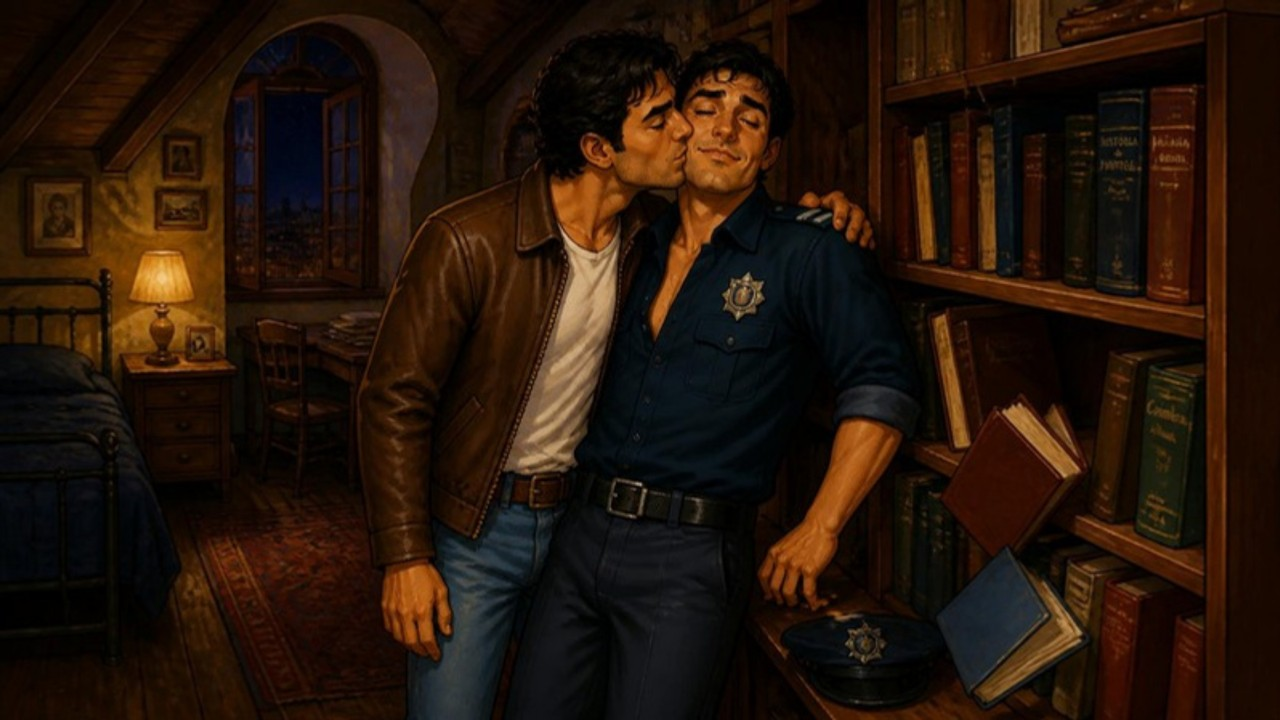
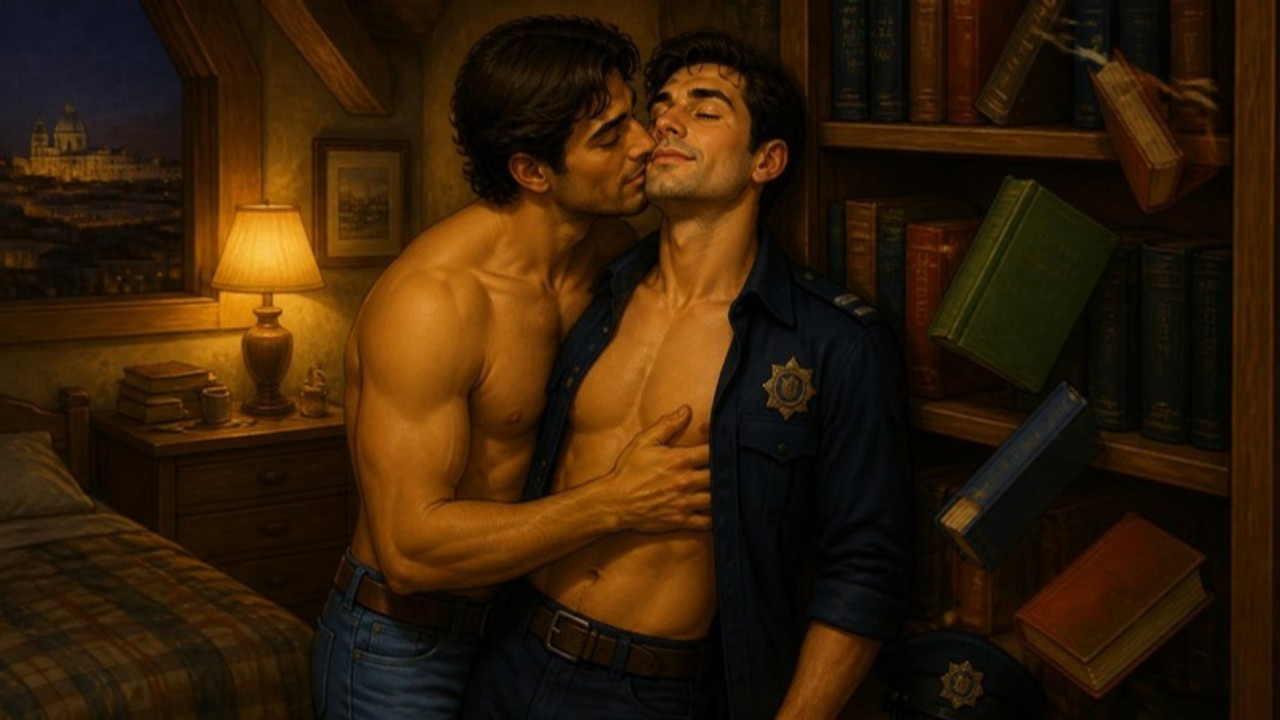
More skin upstairs: shirt off and shirt open against the shelf, then down to the last layer, for both visits; guitar lesson with Alan standing behind Duarte; new full-screen paintings
Claude-Session: https://claude.ai/code/session_01PQoWp2SmC5amp6FGRiZGFy

diff --git a/js/story/ch1.js b/js/story/ch1.js
@@ -484,9 +484,9 @@
       const home = p.x;
       if (gt && window.SPRITES.pair_guitar_lesson) {
         await p.walkTo(gt.x + 110, gt.y + 30);
-        const py = p.y; gt.visible = false; p.x = gt.x + 40; p.y = gt.y + 16; p.h = gt.height(); p.dir = 'e'; p.pose = 'pair_guitar_lesson'; // at his seated height, just in front of the courting couple
+        const py = p.y; gt.visible = false; p.x = gt.x + 30; p.y = gt.y + 16; p.dir = 'e'; p.pose = 'pair_guitar_lesson'; // Alan stands behind him; just in front of the courting couple
         await say('guitar_flirt_4', 'alan_flirt_guitar_4');
-        p.pose = null; p.h = null; p.y = py; gt.visible = true; p.x = gt.x + 110; p.dir = 'w';
+        p.pose = null; p.y = py; gt.visible = true; p.x = gt.x + 110; p.dir = 'w';
       } else await say('guitar_flirt_4', 'alan_flirt_guitar_4');
       gPose('npc_guitar_serenade'); p.pose = 'swoon'; await say('alan_flirt_guitar_2');
       p.pose = null; gPose('npc_guitar_wink'); await say('guitar_flirt_2');

diff --git a/js/sprites.js b/js/sprites.js
@@ -1143,13 +1143,37 @@ window.SPRITES = {
   "fy": 723.0,
   "top": 3.0
  },
- "pair_guitar_lesson": {
-  "w": 469,
+ "pair_cop_shelf2": {
+  "w": 356,
+  "hh": 726,
+  "h": 720,
+  "ax": 213.2,
+  "fy": 722.9,
+  "top": 2.9
+ },
+ "pair_cop_underwear": {
+  "w": 507,
   "hh": 727,
   "h": 720,
-  "ax": 255.5,
-  "fy": 723.1,
-  "top": 3.1
+  "ax": 254.9,
+  "fy": 723.0,
+  "top": 3.0
+ },
+ "pair_guitar_lesson": {
+  "w": 377,
+  "hh": 726,
+  "h": 720,
+  "ax": 205.3,
+  "fy": 723.0,
+  "top": 3.0
+ },
+ "pair_guitar_underwear": {
+  "w": 508,
+  "hh": 726,
+  "h": 720,
+  "ax": 269.4,
+  "fy": 723.0,
+  "top": 3.0
  },
  "pair_guitar_undress": {
   "w": 504,
@@ -1158,6 +1182,14 @@ window.SPRITES = {
   "ax": 253.0,
   "fy": 723.0,
   "top": 3.0
+ },
+ "pair_guitar_undress2": {
+  "w": 527,
+  "hh": 727,
+  "h": 720,
+  "ax": 270.2,
+  "fy": 723.1,
+  "top": 3.1
  },
  "pair_kiss": {
   "w": 340,
